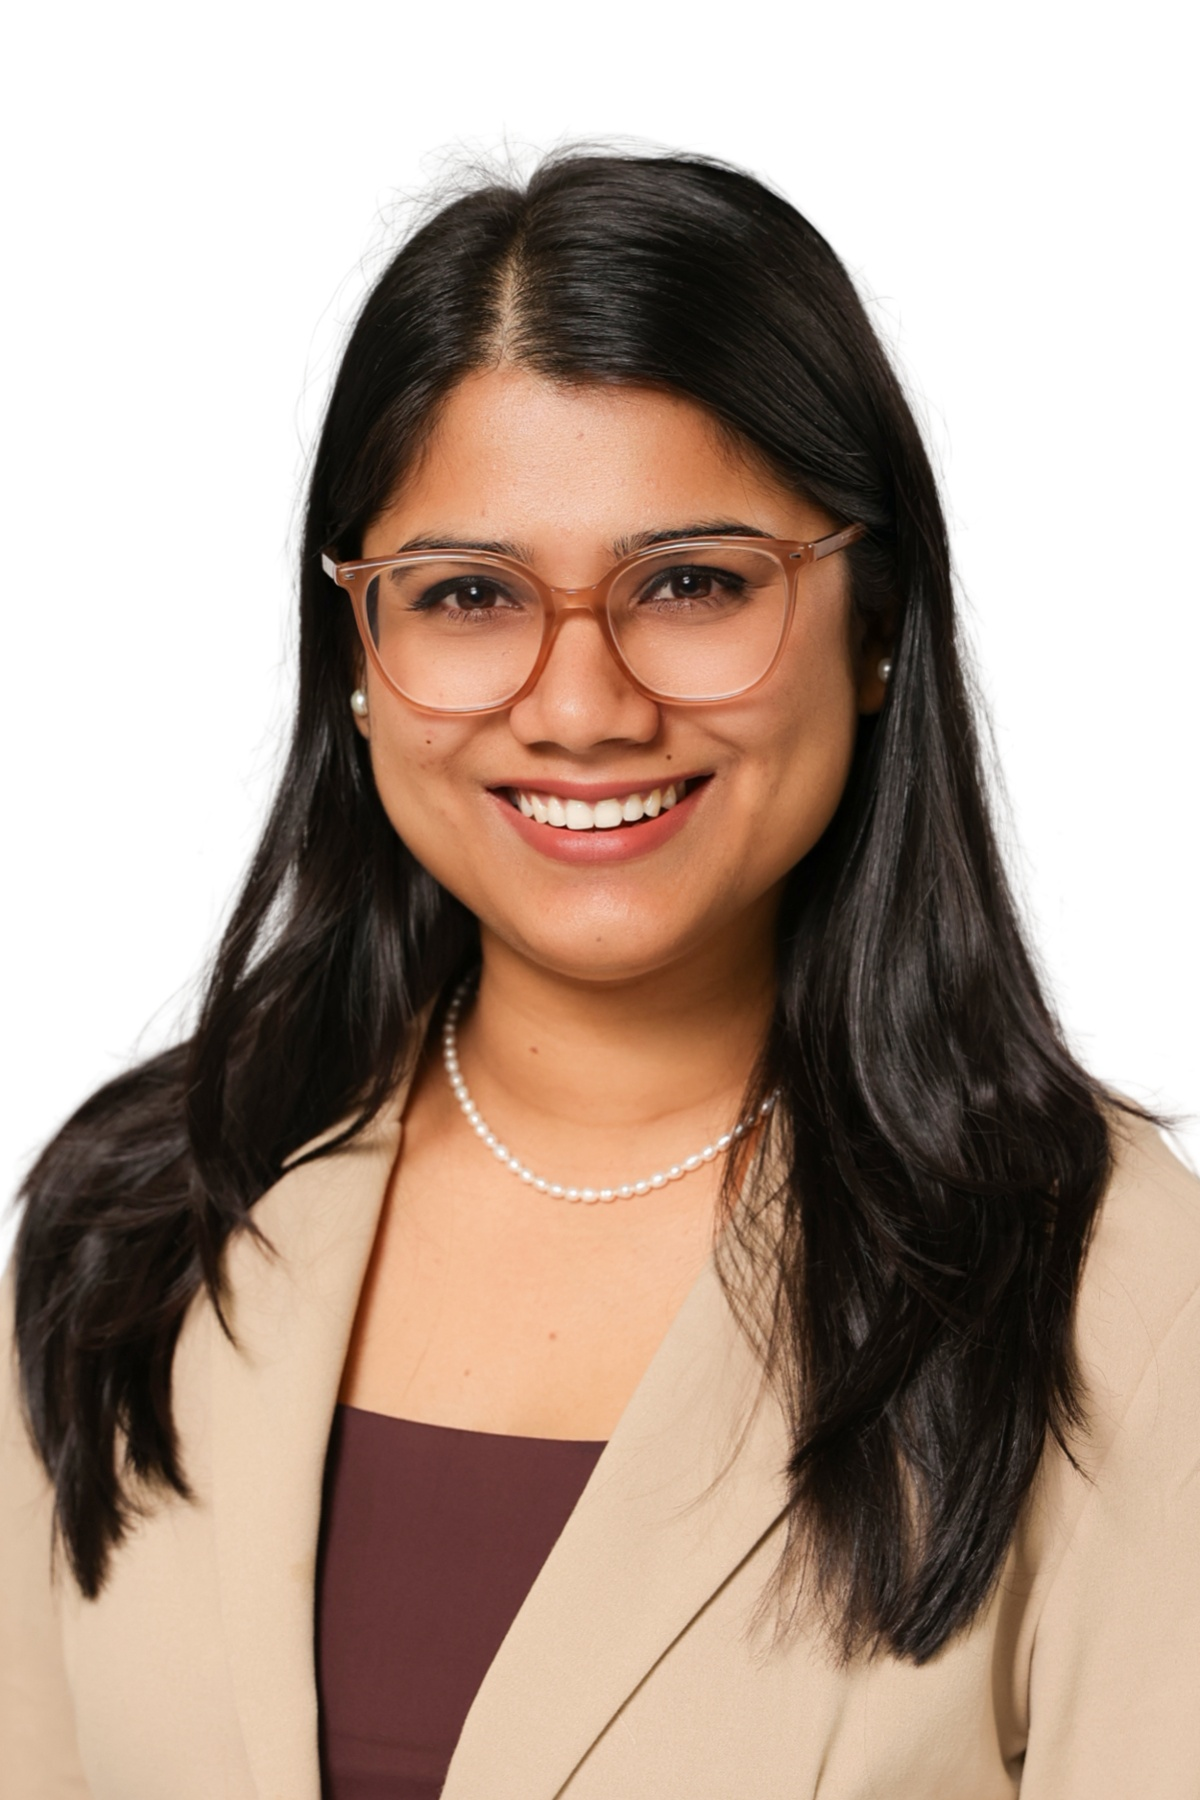
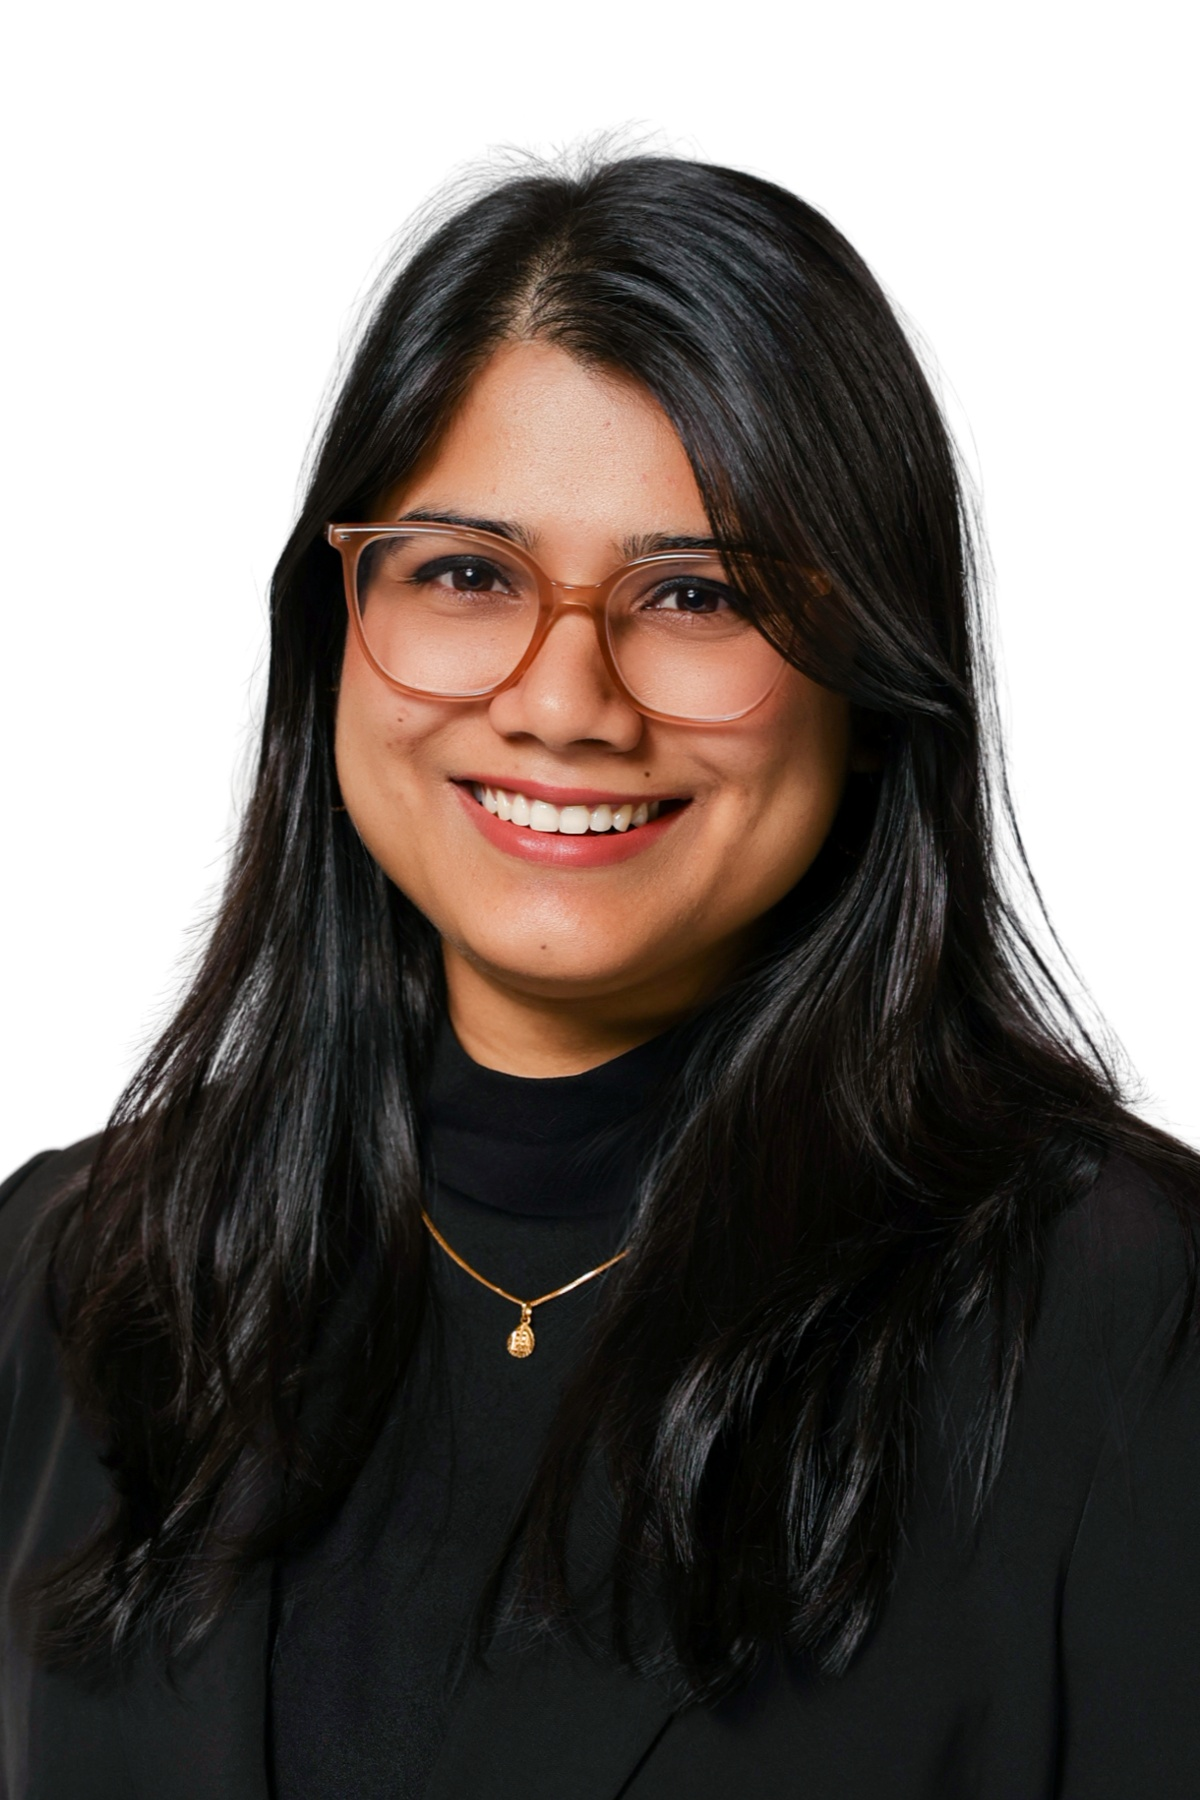
update files

diff --git a/awards.html b/awards.html
@@ -30,6 +30,10 @@
 
 <main>
 
+    <div class="award-photo">
+    <img src="images/award.jpg" alt="Priyanka Kundu receiving an academic award">
+    </div>
+
     <div class="page-intro">
         <div class="eyebrow">Academic Recognition and Service</div>
         <h1>Awards, Fellowships, and Academic Service</h1>

diff --git a/css/style.css b/css/style.css
@@ -269,4 +269,21 @@ h3 {
     .portrait {
         max-width: 260px;
     }
+
+    .award-photo {
+
+        max-width: 400px;
+
+        margin: 0 auto 35px;
+
+    }   
+
+    .award-photo img {
+        width: 100%;
+        height: auto;
+        display: block;
+        object-fit: contain;
+
+    }
+
 }
